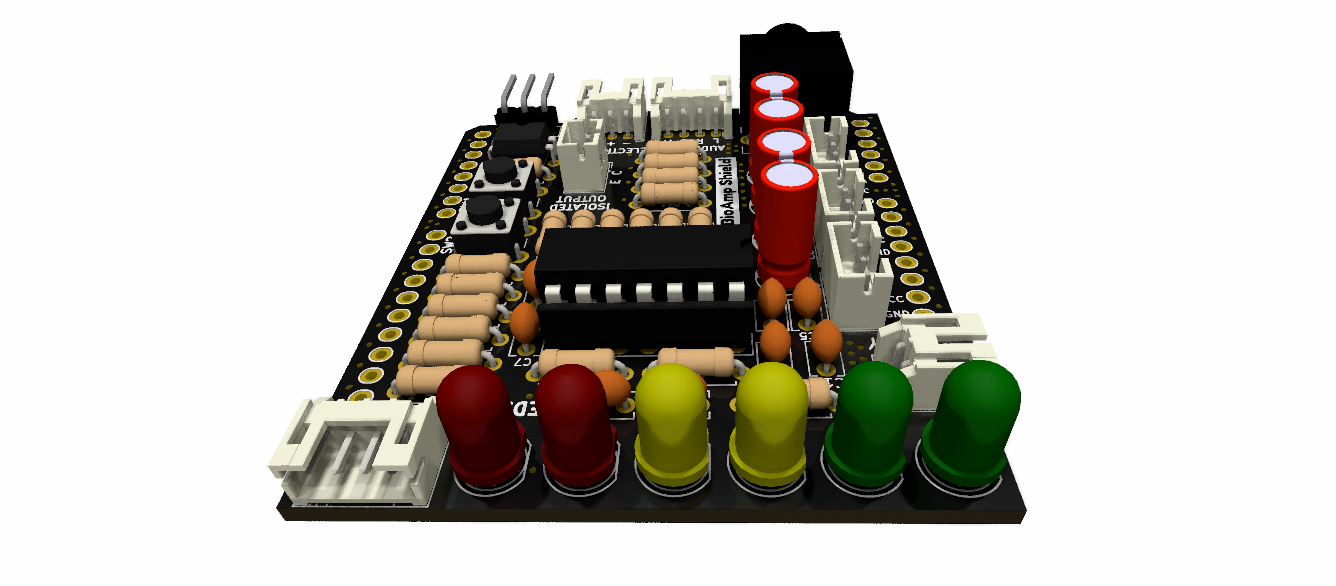
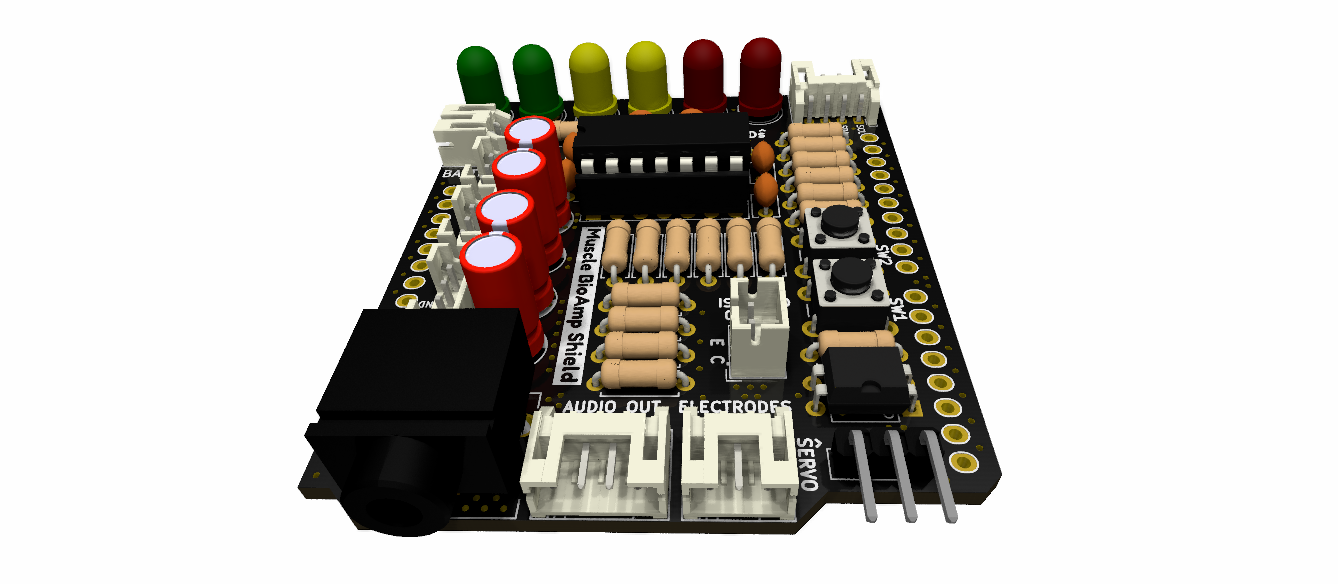
Update tilted renders

diff --git a/README.md b/README.md
@@ -17,7 +17,7 @@ Muscle BioAmp Shield is an all-in-one Arduino Uno ElectroMyography (EMG) shield 
 
 ![Muscle BioAmp Shield](graphics/board/Muscle-BioAmp-Shield.png)
 
-![Muscle BioAmp Shield](graphics/board/Muscle-BioAmp-Shield-Tilted-2.png)
+![Muscle BioAmp Shield](graphics/board/Muscle-BioAmp-Shield-Tilted-1.png)
 
 ## Hardware
 
